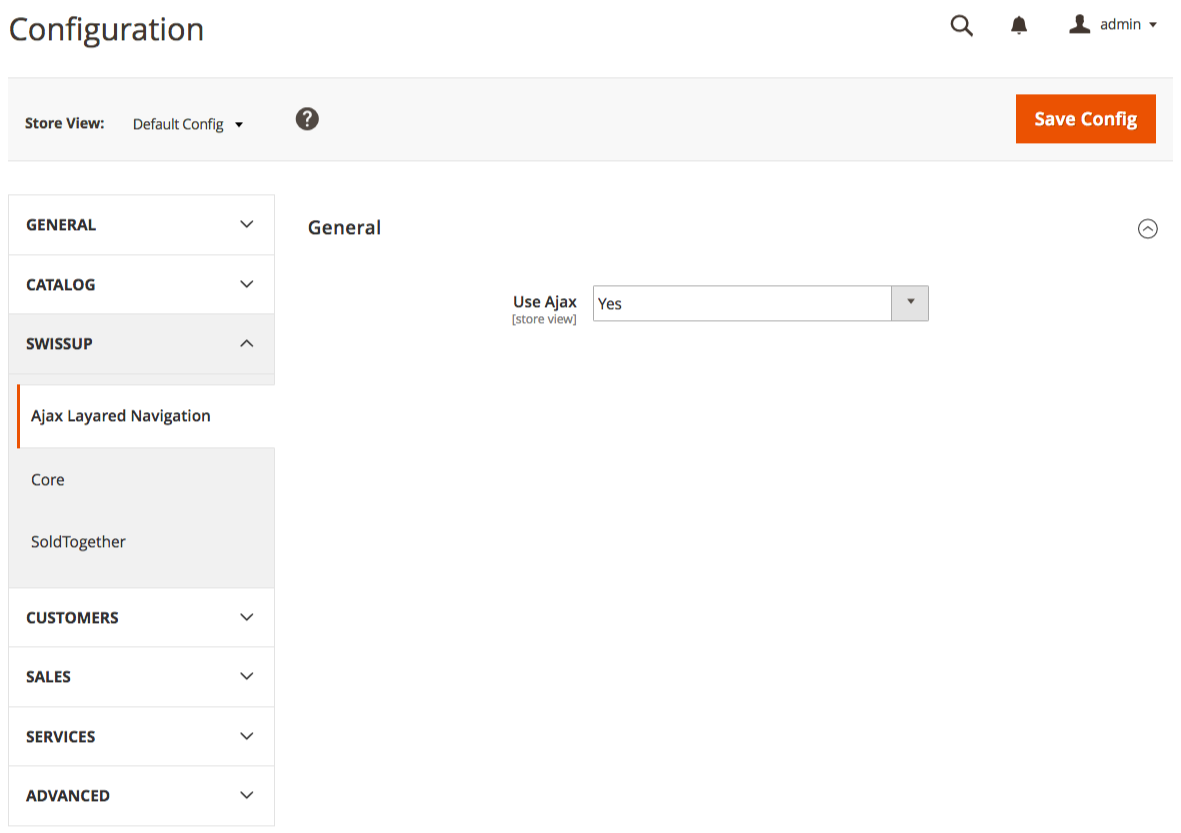
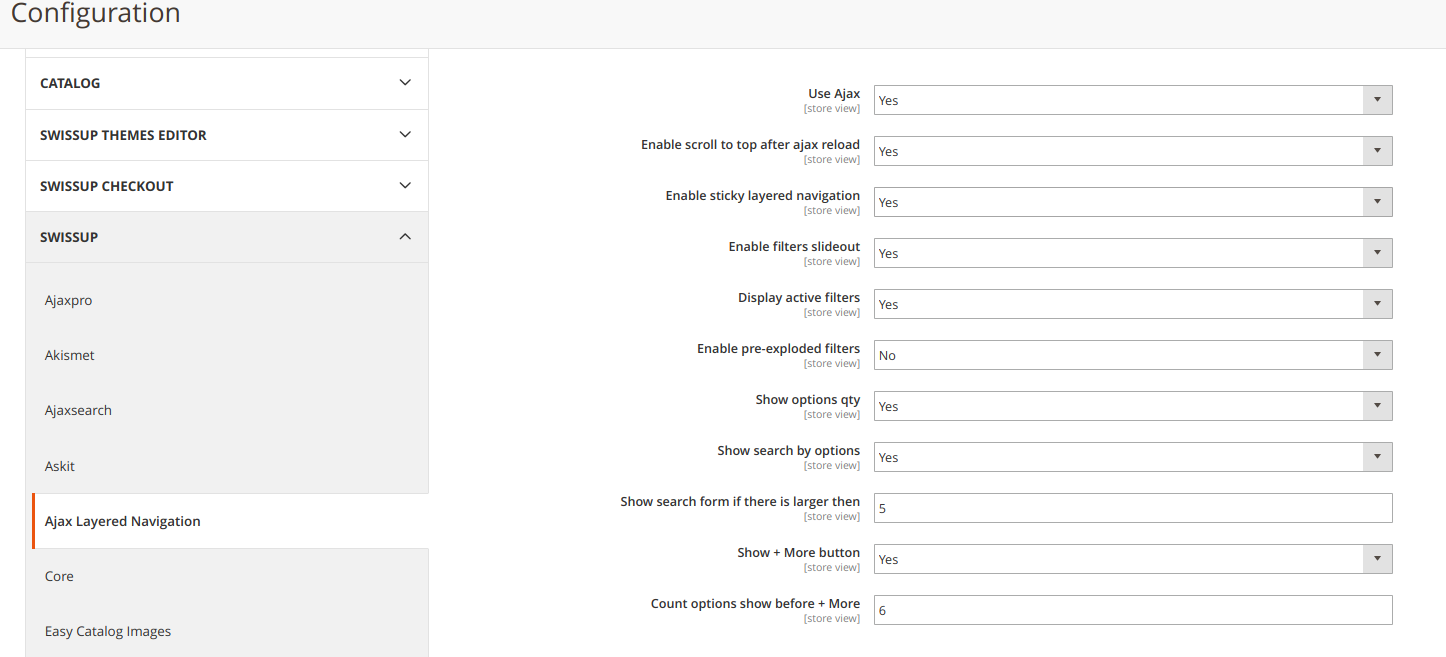
swissup/ajaxlayerednavigation:1.1.0 alpha docs

diff --git a/m2/extensions/ajaxlayerednavigation/index.md b/m2/extensions/ajaxlayerednavigation/index.md
@@ -8,9 +8,9 @@ category: Ajax Layered Navigation
 
 # Ajax Layered Navigation
 
-Layered navigation is one of the most popular magento features created in order to make shopping quick and easy. Let's improve your store layered navigation with additional useful features! So, now you can use multiply attributes choice for more prices navigation.
+Layered navigation is one of the most popular Magento features created in order to make shopping quick and easy. Let's improve your store layered navigation with additional useful features! So, now you can use multiple attributes choice for more prices navigation.
 
-*  Allows to use multiply choices for same filterable attribute
+*  Allows using multiple choices for same filterable attribute
 *  Use price slider instead of default price ranges
 *  Provides the optional ajax page content update
 *  Multi-store and multi-language support
@@ -22,15 +22,16 @@ Layered navigation is one of the most popular magento features created in order 
  3. [Frontend](#frontend)
     - [Category Page](#category-page)
     - [Search Result](#search-result)
+    - [One column layout](#one-column-layout)
  4. [Backend](#backend)
     - [Configuration](#configuration)
-
+ 5. [Use cases](cases/)
 ## Frontend
 
 #### Category
 
 Please remember, you should always set a category as `Anchor` in case you want to to make the category have a filter functionality.
-Please remember, you should always set a attribute config `Use in Layered Navigation` to `Yes` in case you want to to make the attribute have a filter functionality on `Category Pages`.
+Please remember, you should always set an attribute config `Use in Layered Navigation` to `Yes` in case you want to to make the attribute have a filter functionality on `Category Pages`.
 
 Can be used only with catalog input type `Dropdown, Multiple Select and Price` attribute settings.
 
@@ -38,11 +39,16 @@ Can be used only with catalog input type `Dropdown, Multiple Select and Price` a
 
 #### Search Result
 
-Please remember, you should always set a attribute config `Use in Search Results Layered Navigation` to `Yes` in case you want to to make the attribute have a filter functionality on `Search Result Page`.
+Please remember, you should always set an attribute config `Use in Search Results Layered Navigation` to `Yes` in case you want to to make the attribute have a filter functionality on `Search Result Page`.
 
 Can be used only with catalog input type `Dropdown, Multiple Select and Price` attribute settings.
 
 ![Ajax Layered Navigation on Search Result Page](/images/m2/ajaxlayerednavigation/search.png)
+
+#### One column layout
+
+![One column layout](/images/m2/ajaxlayerednavigation/one-column-layout.png)
+
 
 ## Backend
 
@@ -55,3 +61,49 @@ In order to start working with configuration, please go to
 `Use Ajax` - Enable/Disable ajax page content update
 
 ![Backend Configuration](/images/m2/ajaxlayerednavigation/config.png)
+
+`Enable scroll to top after ajax reload` - Enable/Disable scroll to top after ajax response. See image below
+
+![Scrool on top](/images/m2/ajaxlayerednavigation/scrollontop.gif)
+
+`Enable sticky layered navigation` - Enable/Disable sticky behavior. See below
+
+![Enable sticky layered navigation - yes](/images/m2/ajaxlayerednavigation/sticky-yes.gif)
+
+`Enable filters slideout` - Enable/Disable explode-implode filter sidebar behaviour. See below
+
+![Enable slideout - yes](/images/m2/ajaxlayerednavigation/slideout.gif)
+
+`Display active filters` - Show/Hide Applied filters. See below
+
+![Applied filters](/images/m2/ajaxlayerednavigation/applied.png)
+
+`Enable pre-exploded filters` - Enable/Disable pre-exploded logic.
+
+`Pre-exploded filters` - List of the attribute. If checked then explode on the frontend.
+
+![Pre-explode backend](/images/m2/ajaxlayerednavigation/explode-back.png)
+![Pre-explode frontend](/images/m2/ajaxlayerednavigation/explode-front.png)
+
+`Show options qty`  - Enable/Disable quantity
+
+![Quantity enabled](/images/m2/ajaxlayerednavigation/qty-yes.png)
+![Quantity disabled](/images/m2/ajaxlayerednavigation/qty-no.png)
+
+`Show search by options` - Enable/Disable search by filter options
+
+`Show search form when options count is larger than` - Show search if options more then 5 for example. It depends on the previous config option.
+
+![Search by list disabled](/images/m2/ajaxlayerednavigation/searchlist-no.png)
+![Search by list enabled](/images/m2/ajaxlayerednavigation/searchlist-yes.png)
+![Search by list in action](/images/m2/ajaxlayerednavigation/searchlist-result.png)
+
+`Show + More button` - Enable/Disable + More behaviour
+
+`Show '+ More' when options count is larger than` - Show + More if options more then 6 for example. It depends on the previous config option.
+
+![+ More in action](/images/m2/ajaxlayerednavigation/more.gif)
+
+- [Installation](installation/)
+- [Changelog](changelog/)
+- [Use cases](cases/)

diff --git a/m2/extensions/ajaxlayerednavigation/cases.md b/m2/extensions/ajaxlayerednavigation/cases.md
@@ -1,0 +1,39 @@
+---
+layout: default
+title: Ajax Layered Navigation Use Cases
+description: Magento2 Ajax Layered Navigation
+keywords: "layered navigation, ajax layered navigation, ajax filters, multiple filters"
+category: Ajax Layered Navigation
+---
+
+# Use cases
+
+#### Add Stock Filter
+
+1. Enable/Disable Display Out of Stock Products
+    `Stores -> Configuration -> Catalog -> Inventory  -> Stock Options -> Display Out of Stock Products` - Yes
+
+    ![Enable Display out of stock products](https://user-images.githubusercontent.com/412612/33838709-f174d9c8-de98-11e7-9adf-2b74829443f3.png)
+
+2. Open `Store -> Attributes -> Product`
+
+3. Find attribute quantity_and_stock_status
+
+    ![find attr](https://user-images.githubusercontent.com/412612/33837857-71dcfb48-de96-11e7-95b5-b137197e5357.png)
+
+4. Open Storefront Properties and find  `Use in Layered Navigation` and set `Filterable with results`
+
+    ![Change on filtrable](https://user-images.githubusercontent.com/412612/33837858-71fa5b98-de96-11e7-9934-3e3bdc371fe9.png)
+
+5. In console run - `php bin/magento indexer:reindex`
+
+6. Check on the frontend. At least one product must be 'out of stock'
+
+    ![screenshot from 2017-12-11 17-14-50](https://user-images.githubusercontent.com/412612/33838017-de535e98-de96-11e7-8960-03b961f7dda1.png)
+
+
+#### See also:
+
+* [Installation](../installation/)
+* [Support](https://swissuplabs.com/contacts/)
+* [Forum](https://swissuplabs.com/magento-forum/)

diff --git a/m2/extensions/ajaxlayerednavigation/changelog.md b/m2/extensions/ajaxlayerednavigation/changelog.md
@@ -7,6 +7,17 @@ category: Ajax Layered Navigation
 
 # Changelog
 
+### Version 1.1.0
+
+ -  Add sticky layered navigation
+ -  Add stock filter (In Stock, Out of Stock)
+ -  Fix layered navigation in one column layout
+ -  Default exploded filters of option
+ -  Add slideout filters sidebar
+ -  Add round style for color options
+ -  Add search options by name
+ -  etc.
+
 ### Version 1.0.0
 
  -  Initial release
